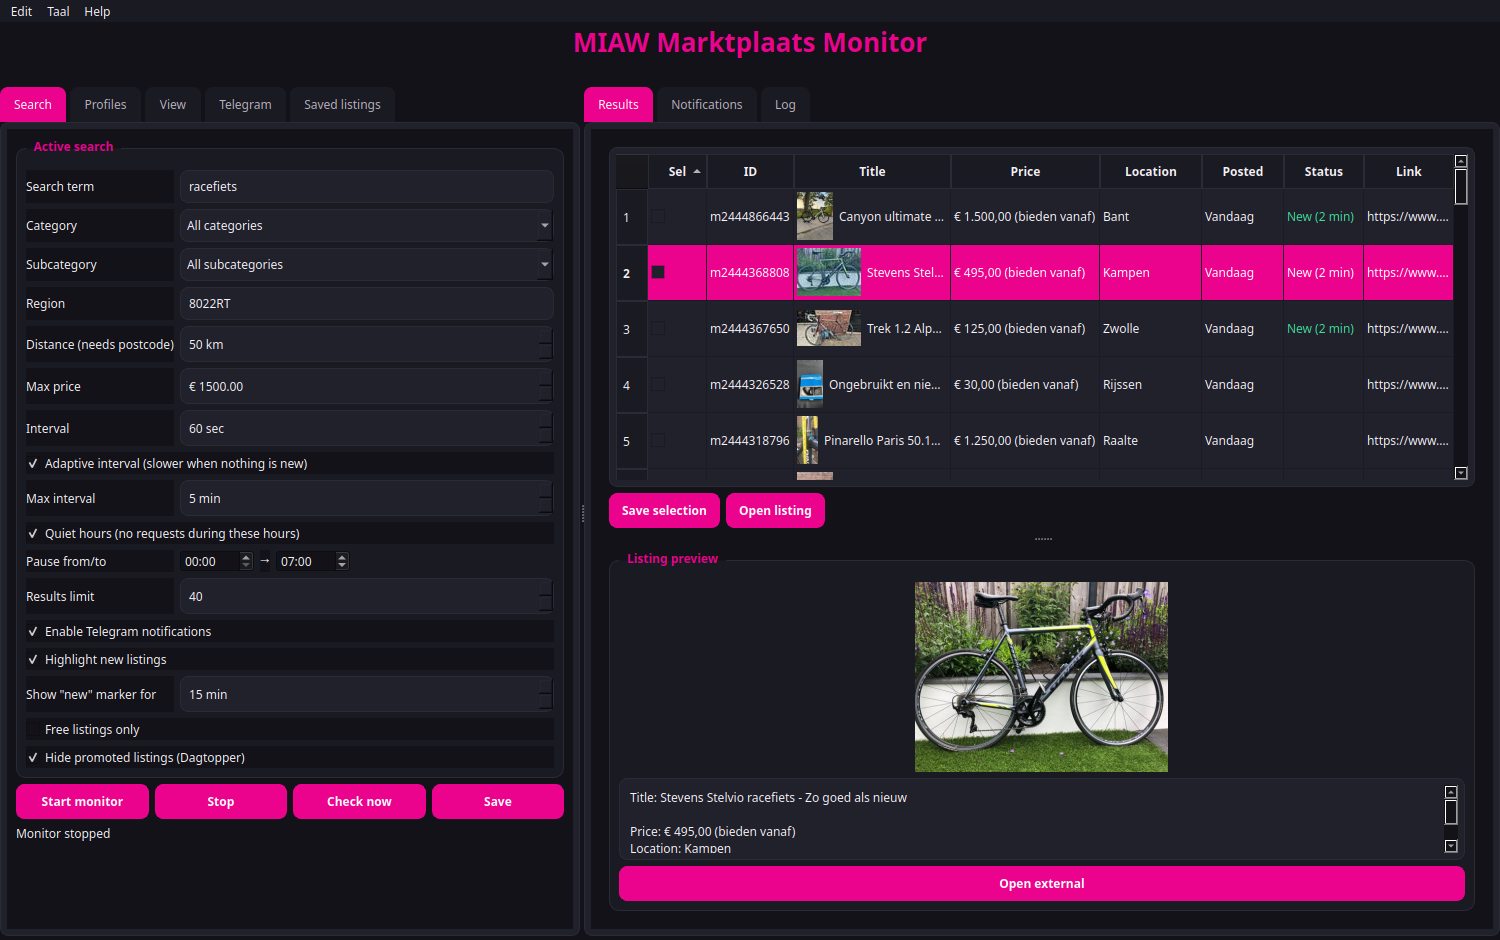
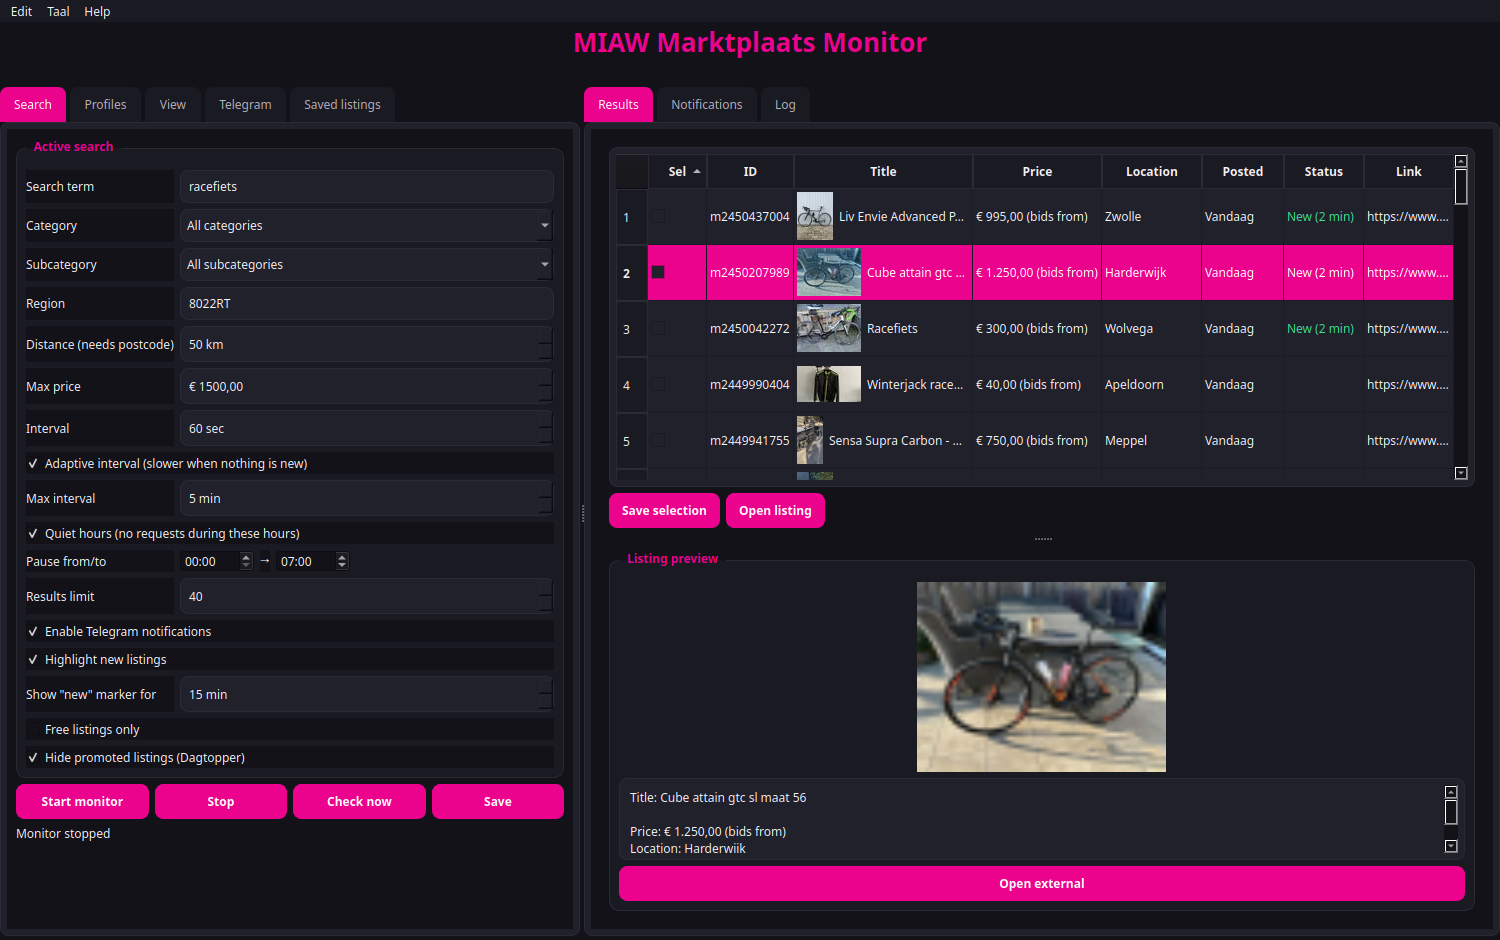
Fixes from reviewing 4.1, and screenshots for 4.1
Reviewing the 4.1 changes before release turned up two problems in them:

- Saved lists from older versions whose names contain characters the new
  cleaning replaces, such as "fietsen (2026)", showed in the sidebar but loaded
  as empty, and adding to one would have created a second file. A name that
  exactly matches an existing list file is now used as-is; it can only match a
  file directly inside the folder.
- The crash handler opened its dialog from whichever thread raised. Exceptions
  in background threads reach sys.excepthook too, and creating a widget off the
  GUI thread crashed the app - the safety net itself became the crash. The
  report now travels by signal and is shown on the GUI thread.

Both have regression tests that fail when the fix is removed.

The screenshots are retaken so the English one shows English price labels.

diff --git a/tests/test_error_handler.py b/tests/test_error_handler.py
@@ -1,0 +1,70 @@
+"""The last-resort error handler must never become a crash itself."""
+
+import threading
+import unittest
+from unittest import mock
+
+from PyQt6.QtCore import QEventLoop, QThread, QTimer
+from PyQt6.QtWidgets import QApplication
+
+import ui.main_window as main_window
+
+
+def run_events(ms=300):
+    loop = QEventLoop()
+    QTimer.singleShot(ms, loop.quit)
+    loop.exec()
+
+
+class ErrorHandlerTests(unittest.TestCase):
+    @classmethod
+    def setUpClass(cls):
+        cls.app = QApplication.instance() or QApplication([])
+
+    def setUp(self):
+        self.shown_on_gui_thread = []
+
+        def fake_critical(*args, **kwargs):
+            self.shown_on_gui_thread.append(
+                threading.current_thread() is threading.main_thread()
+            )
+
+        patcher = mock.patch.object(main_window.QMessageBox, "critical", fake_critical)
+        patcher.start()
+        self.addCleanup(patcher.stop)
+
+        log = mock.patch.object(main_window, "data_file", return_value=self._log_path())
+        log.start()
+        self.addCleanup(log.stop)
+
+        import sys
+        self.addCleanup(setattr, sys, "excepthook", sys.excepthook)
+        main_window.install_error_handler()
+
+    def _log_path(self):
+        import tempfile
+        from pathlib import Path
+        return Path(tempfile.mkdtemp()) / "crash.log"
+
+    def test_exception_in_a_background_thread_is_shown_on_the_gui_thread(self):
+        class Boom(QThread):
+            def run(self):
+                raise RuntimeError("background failure")
+
+        thread = Boom()
+        thread.start()
+        thread.wait(3000)
+        run_events()
+        self.assertEqual(self.shown_on_gui_thread, [True])
+
+    def test_exception_in_a_slot_is_shown_and_the_app_keeps_running(self):
+        def fail():
+            raise RuntimeError("slot failure")
+
+        QTimer.singleShot(0, fail)
+        run_events()
+        self.assertEqual(self.shown_on_gui_thread, [True])
+
+
+if __name__ == "__main__":
+    unittest.main()

diff --git a/ui/main_window.py b/ui/main_window.py
@@ -2145,6 +2145,18 @@ class MainWindow(QMainWindow):
             self.apply_theme()
 
 
+class _ErrorReporter(QObject):
+    """Carries an error report to the GUI thread.
+
+    Exceptions from background threads reach sys.excepthook too, and opening a
+    dialog from such a thread is itself a crash. Emitting a signal is safe from
+    any thread; Qt delivers it on the thread this object lives on, which is the
+    GUI thread.
+    """
+
+    report = pyqtSignal(str)
+
+
 def install_error_handler():
     """Show unexpected errors instead of letting the app vanish.
 
@@ -2154,6 +2166,17 @@ def install_error_handler():
     and shown in a dialog, and the app keeps running.
     """
     log_path = data_file("crash.log")
+    reporter = _ErrorReporter()
+
+    def show(summary):
+        if QApplication.instance() is not None:
+            QMessageBox.critical(
+                None,
+                tr("unexpected_error_title"),
+                tr("unexpected_error_body").format(fout=summary, pad=log_path),
+            )
+
+    reporter.report.connect(show)
 
     def handle(exc_type, exc, tb):
         if issubclass(exc_type, KeyboardInterrupt):
@@ -2166,16 +2189,11 @@ def install_error_handler():
         except OSError:
             pass
         print(details, file=sys.stderr)
-        if QApplication.instance() is not None:
-            QMessageBox.critical(
-                None,
-                tr("unexpected_error_title"),
-                tr("unexpected_error_body").format(
-                    fout=f"{exc_type.__name__}: {exc}", pad=log_path
-                ),
-            )
+        reporter.report.emit(f"{exc_type.__name__}: {exc}")
 
     sys.excepthook = handle
+    # Keep the reporter alive for as long as the hook can fire.
+    install_error_handler.reporter = reporter
 
 
 def main():

diff --git a/tests/test_storage.py b/tests/test_storage.py
@@ -64,6 +64,13 @@ class SavedListTests(unittest.TestCase):
         self.assertEqual(self.manager.load_list("mijn lijst"), items)
         self.assertEqual(self.manager.list_names(), ["mijn lijst"])
 
+    def test_list_from_an_older_version_keeps_its_name(self):
+        old = self.lists_dir / "fietsen (2026).json"
+        old.write_text(json.dumps([{"id": "m1"}]), encoding="utf-8")
+        self.assertEqual(self.manager.load_list("fietsen (2026)"), [{"id": "m1"}])
+        self.manager.save_list("fietsen (2026)", [{"id": "m1"}, {"id": "m2"}])
+        self.assertEqual(self.manager.list_names(), ["fietsen (2026)"])
+
     def test_missing_list_reads_as_empty(self):
         self.assertEqual(self.manager.load_list("bestaat niet"), [])
 

diff --git a/core/saved_lists.py b/core/saved_lists.py
@@ -51,6 +51,14 @@ class SavedListsManager:
         self.base_dir.mkdir(parents=True, exist_ok=True)
 
     def _path(self, name, suffix):
+        # A list that already exists keeps its exact name. Lists saved by older
+        # versions may contain characters the cleaning now replaces, such as
+        # "fietsen (2026)"; cleaning those would point at a different, empty
+        # file. The name can only match if the file is directly in the folder,
+        # so this cannot be used to reach anywhere else.
+        if name in self.list_names():
+            return self.base_dir / f"{name}{suffix}"
+
         cleaned = clean_list_name(name)
         if not cleaned:
             raise InvalidListName(tr("invalid_list_name"))
